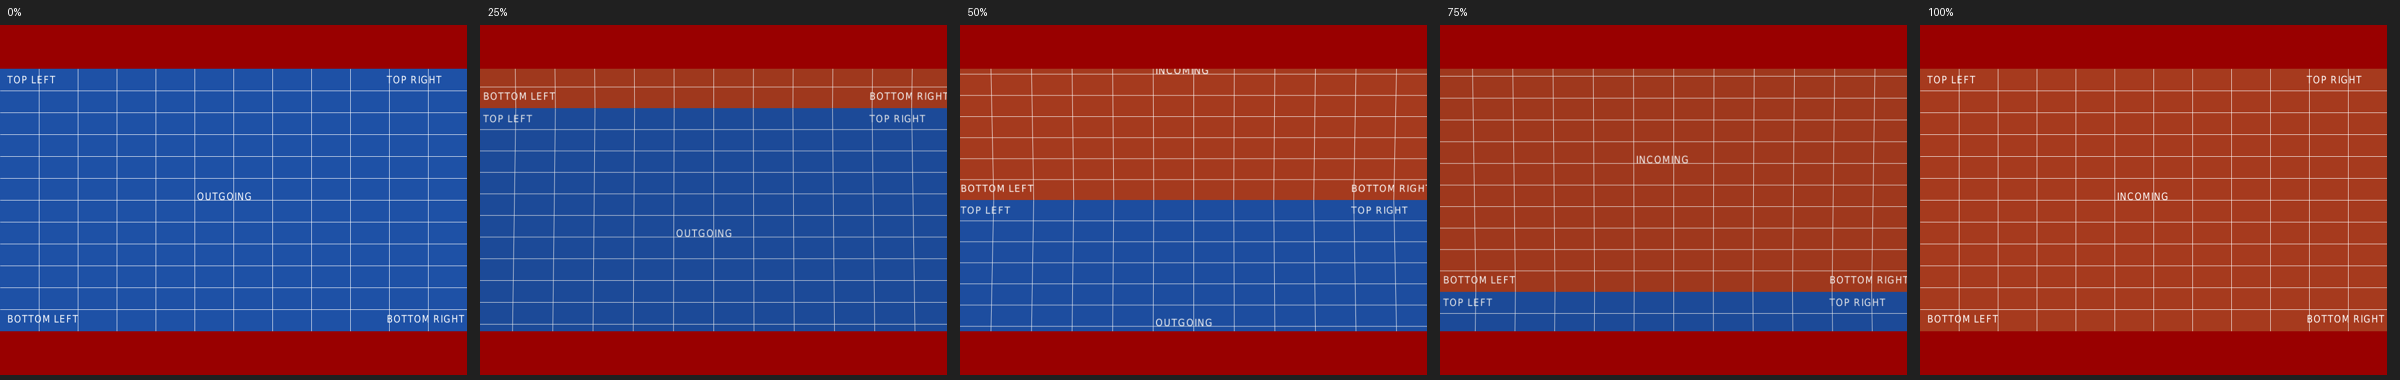
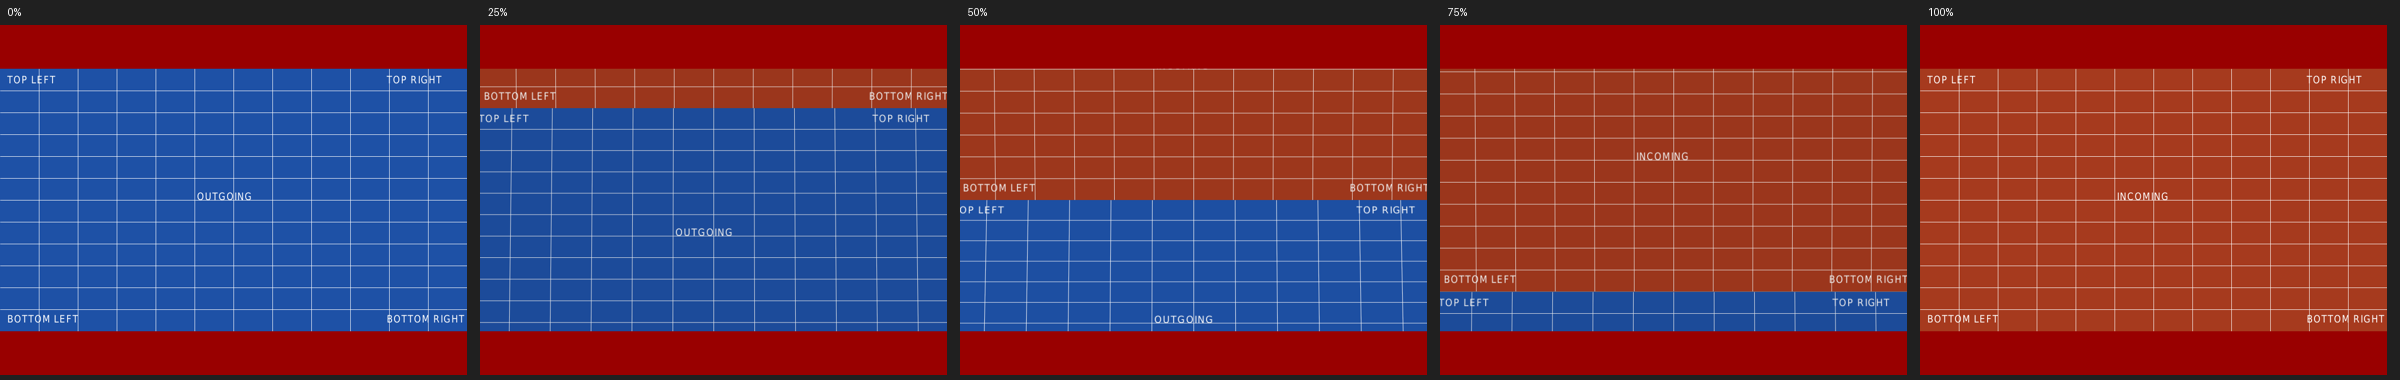
Give Push a gentle jelly response

diff --git a/src/push.hpp b/src/push.hpp
@@ -10,7 +10,10 @@ namespace pdfcube {
 struct PushPose {
   Matrix outgoing;
   Matrix incoming;
-  float compression;
+  float outgoing_compression;
+  float incoming_compression;
+  float outgoing_stretch;
+  float wobble;
   float contact;
 };
 
@@ -28,25 +31,38 @@ inline PushPose push_pose(double progress, int degrees) {
   const float dx = std::cos(radians);
   const float dy = std::sin(radians);
 
-  // The shared contact plane travels across the screen. Both padded blocks
-  // compress toward that plane, then recover completely at either endpoint.
+  // The shared contact plane travels across the screen. The outgoing block is
+  // softer: it squashes along the impact axis, bulges across it, and rings once
+  // after contact. The incoming block stays firmer. Every term vanishes at the
+  // endpoints, keeping the static frames exact and replay deterministic.
   const float impact = std::pow(std::sin(pi * p), 2);
-  const float half_extent = 1 - .075F * impact;
+  const float settling = std::max(0.0F, (p - .35F) / .65F);
+  const float wobble = .018F * std::sin(3 * pi * settling) *
+                       std::pow(1 - settling, 2) * impact;
+  const float outgoing_compression = .09F * impact + wobble;
+  const float incoming_compression = .025F * impact;
+  const float outgoing_half_extent = 1 - outgoing_compression;
+  const float incoming_half_extent = 1 - incoming_compression;
+  const float outgoing_stretch = 1 + .035F * impact - .3F * wobble;
   const float contact = -1 + 2 * eased;
-  const float outgoing_center = contact + half_extent;
-  const float incoming_center = contact - half_extent;
+  const float outgoing_center = contact + outgoing_half_extent;
+  const float incoming_center = contact - incoming_half_extent;
   const float bulge = .11F * impact;
-  const float tilt = .055F * std::sin(pi * p);
+  const float tilt = .045F * std::sin(pi * p) + .45F * wobble;
   const Matrix direction = rotate_z(radians);
   const Matrix restore = rotate_z(-radians);
   const Matrix outgoing_shape =
-      direction * rotate_y(-tilt) * scale(half_extent, 1, 1) * restore;
+      direction * rotate_y(-tilt) *
+      scale(outgoing_half_extent, outgoing_stretch, 1) * restore;
   const Matrix incoming_shape =
-      direction * rotate_y(tilt) * scale(half_extent, 1, 1) * restore;
+      direction * rotate_y(tilt * .55F) * scale(incoming_half_extent, 1, 1) * restore;
   return {
       translate(dx * outgoing_center, dy * outgoing_center, bulge) * outgoing_shape,
-      translate(dx * incoming_center, dy * incoming_center, bulge) * incoming_shape,
-      1 - half_extent,
+      translate(dx * incoming_center, dy * incoming_center, bulge * .45F) * incoming_shape,
+      outgoing_compression,
+      incoming_compression,
+      outgoing_stretch,
+      wobble,
       contact,
   };
 }

diff --git a/tests/test_push.cc b/tests/test_push.cc
@@ -13,8 +13,11 @@ int main() {
     float previous_contact = -2;
     for (int step = 0; step <= 100; ++step) {
       const auto pose = push_pose(step / 100.0, direction);
-      if (pose.contact + .00001F < previous_contact || pose.compression < -.00001F ||
-          pose.compression > .07501F) return EXIT_FAILURE;
+      if (pose.contact + .00001F < previous_contact ||
+          pose.outgoing_compression < -.00001F || pose.outgoing_compression > .10501F ||
+          pose.incoming_compression < -.00001F || pose.incoming_compression > .02501F ||
+          pose.outgoing_stretch < .99999F || pose.outgoing_stretch > 1.04001F)
+        return EXIT_FAILURE;
       previous_contact = pose.contact;
       for (int i = 0; i < 16; ++i) {
         if (!std::isfinite(pose.outgoing.value[i]) ||
@@ -28,8 +31,8 @@ int main() {
   const auto end = push_pose(1, 0);
   if (!close(start.outgoing.value[12], 0) || !close(start.incoming.value[12], -2) ||
       !close(end.outgoing.value[12], 2) || !close(end.incoming.value[12], 0) ||
-      !close(middle.outgoing.value[12] - middle.incoming.value[12], 1.85F) ||
-      !close(middle.compression, .075F)) return EXIT_FAILURE;
+      middle.outgoing_compression <= middle.incoming_compression ||
+      middle.outgoing_stretch <= 1 || close(middle.wobble, 0)) return EXIT_FAILURE;
 
   if (push_direction(-90) != 0 || push_direction(45) != 0 ||
       push_direction(90) != 90 || push_direction(270) != 270) return EXIT_FAILURE;

diff --git a/src/renderer.cc b/src/renderer.cc
@@ -500,8 +500,10 @@ void Renderer::render(int width, int height, const FrameState& frame) {
         draw_page(index, page_size(index),
                   (view * model * translate(0, 0, depth / 2)).value.data());
       };
-      draw_fitted(frame.current_page, pose.outgoing, .88F + pose.compression);
-      draw_fitted(frame.next_page, pose.incoming, .92F + pose.compression);
+      draw_fitted(frame.current_page, pose.outgoing,
+                  .88F + pose.outgoing_compression);
+      draw_fitted(frame.next_page, pose.incoming,
+                  .92F + pose.incoming_compression);
       return;
     }
     if (frame.transition != Transition::blinds) {

diff --git a/docs/transitions/README.md b/docs/transitions/README.md
@@ -142,11 +142,13 @@ unchanged.
 ## Push: experimental, awaiting visual approval
 
 Push treats the outgoing and incoming pages as two shallow padded blocks. Their
-shared contact plane travels in the PDF `/Di` direction. At impact both blocks
-compress by at most 7.5 percent along the travel axis, lift slightly toward the
-viewer, and lean toward one another; they recover completely before the final
-frame. The motion is a closed-form easing curve rather than a simulated spring,
-so replay, reverse navigation and review captures remain deterministic.
+shared contact plane travels in the PDF `/Di` direction. At impact the softer
+outgoing block squashes by about ten percent along the travel axis, bulges by up
+to 3.5 percent across it, and makes one small damped wobble. The firmer incoming
+block yields by at most 2.5 percent. Both lift slightly toward the viewer and
+recover completely before the final frame. These are closed-form easing curves,
+not a free-running simulation, so replay, reverse navigation and review captures
+remain deterministic.
 
 PDF directions 0, 90, 180 and 270 select right, up, left and down. Missing or
 unsupported angles use the PDF default of right. Both pages are rendered at
@@ -205,9 +207,9 @@ direction and readable text; a Split midpoint still matched the previous
 capture byte-for-byte. Fly contact sheets were inspected for direction,
 readable text, restrained
 flutter and a flat landing. This is not yet native-platform or motion approval.
-Push captures were inspected for continuous contact, restrained compression,
-direction and complete recovery. This is not yet native-platform or motion
-approval.
+Push captures were inspected for continuous contact, asymmetric squash, a
+restrained settling wobble, direction and complete recovery. This is not yet
+native-platform or motion approval.
 
 - Automated: PDF metadata (fractional animation duration distinct from dwell),
   both axes, portrait/landscape/mixed dimensions, deterministic midpoint,
@@ -223,8 +225,8 @@ approval.
   bounded height and monotonic landing, `/SS` validation, PDF metadata, program
   selection, deterministic rendering, exact endpoints and reproducible examples.
 - Push checks cover all four PDF directions, default/invalid direction fallback,
-  monotonic contact, bounded compression, PDF metadata, program selection,
-  deterministic rendering, exact endpoints and reproducible examples.
+  monotonic contact, bounded squash/stretch/wobble, PDF metadata, program
+  selection, deterministic rendering, exact endpoints and reproducible examples.
 - Pending manual approval: realistic Beamer deck; HD/2K/4K frame-time measurements;
   native Wayland/NVIDIA, X11, Windows and macOS playback; long-running playback
   memory checks. Still-frame and geometry checks are not substitutes for these.
